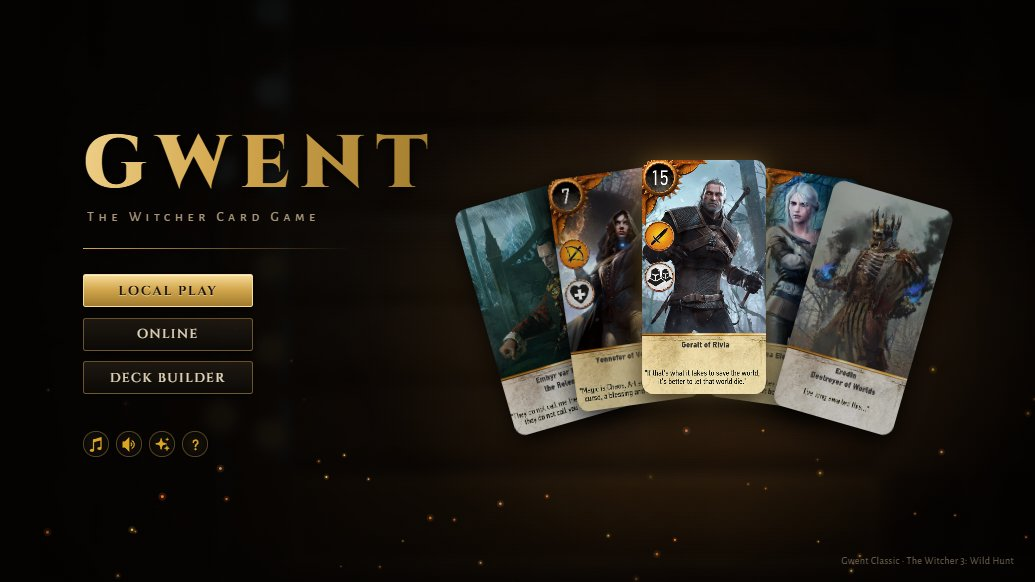
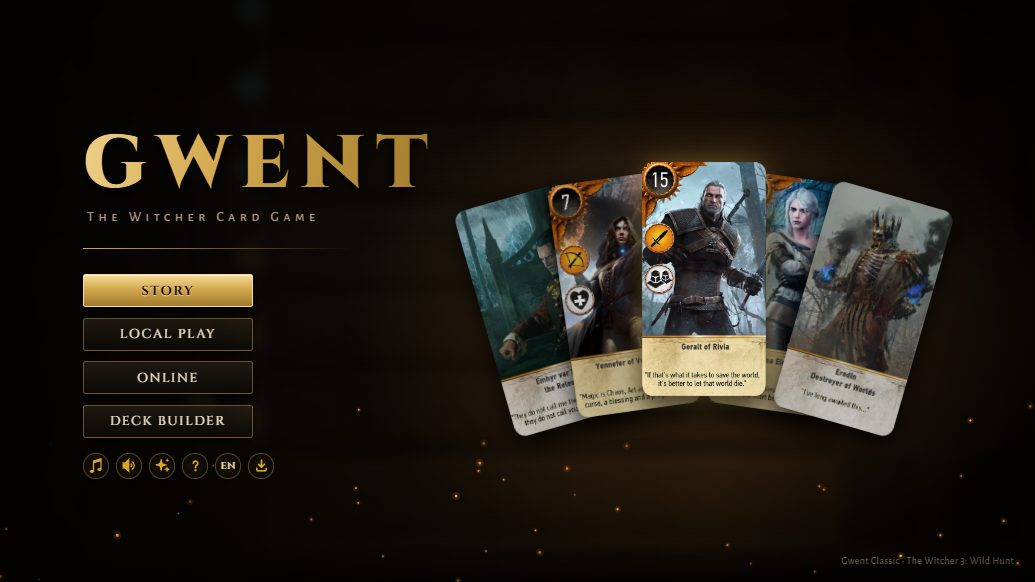
Refactor code structure for improved readability and maintainability

diff --git a/index.html b/index.html
@@ -6,8 +6,8 @@
 	<title>Gwent Classic from The Witcher 3: Wild Hunt</title>
 	<meta charset="utf-8" />
 	<meta name="author" content="Arun Sundaram" />
-	<meta name="description" content="Play the original Gwent minigame from The Witcher 3 in your browser! Includes cards from Hearts of Stone and Blood & Wine!" />
-	<meta name="keywords" content="arun, sundaram, programmer, gwent, tw3, witcher, card, game, gamedev, play" />
+	<meta name="description" content="Play the original Gwent card game from The Witcher 3 in your browser: follow Geralt's story across the Continent, or play the AI and friends online. Includes Hearts of Stone and Blood and Wine cards!" />
+	<meta name="keywords" content="arun, sundaram, programmer, gwent, tw3, witcher, card, game, gamedev, play, story mode, campaign" />
 	<meta name="viewport" content="width=device-width, initial-scale=1.0" />
 	<meta name="theme-color" content="#070605" />
 	<meta name="mobile-web-app-capable" content="yes" />
@@ -19,7 +19,7 @@
 	<meta property="og:site_name" content="Gwent Classic" />
 	<meta property="og:url" content="https://witcher-gwent.vercel.app/" />
 	<meta property="og:title" content="Gwent Classic from The Witcher 3: Wild Hunt" />
-	<meta property="og:description" content="Play the original Gwent card game in your browser – vs AI or online with friends. Includes Hearts of Stone and Blood &amp; Wine cards!" />
+	<meta property="og:description" content="Play the original Gwent card game in your browser – follow Geralt's story across the Continent, take on the AI or play friends online. Includes Hearts of Stone and Blood and Wine cards!" />
 	<meta property="og:image" content="https://witcher-gwent.vercel.app/img/app/og-card.jpg" />
 	<meta property="og:image:secure_url" content="https://witcher-gwent.vercel.app/img/app/og-card.jpg" />
 	<meta property="og:image:type" content="image/jpeg" />
@@ -28,7 +28,7 @@
 	<meta property="og:image:alt" content="Gwent Classic – Witcher medallion over the faction cards" />
 	<meta name="twitter:card" content="summary_large_image" />
 	<meta name="twitter:title" content="Gwent Classic from The Witcher 3: Wild Hunt" />
-	<meta name="twitter:description" content="Play the original Gwent card game in your browser – vs AI or online with friends." />
+	<meta name="twitter:description" content="Play the original Gwent card game in your browser – a story campaign across the Continent, AI opponents and online matches with friends." />
 	<meta name="twitter:image" content="https://witcher-gwent.vercel.app/img/app/og-card.jpg" />
 	<link rel="manifest" href="manifest.webmanifest" />
 	<!-- Chrome can fire this before the game scripts finish downloading -->
@@ -672,9 +672,11 @@
 							<span class="g-pin" style="--x:26.5; --y:50">1</span>
 							<span class="g-pin" style="--x:26.5; --y:57.4">2</span>
 							<span class="g-pin" style="--x:26.5; --y:64.9">3</span>
-							<span class="g-pin" style="--x:22.6; --y:76.4">4</span>
+							<span class="g-pin" style="--x:26.5; --y:72.4">4</span>
+							<span class="g-pin" style="--x:29.5; --y:80">5</span>
 						</div>
 						<ol class="g-legend">
+							<li><b>Story</b> &ndash; follow Geralt across the Continent, build a card collection and unlock every faction (see <i>Story Mode</i>).</li>
 							<li><b>Local Play</b> &ndash; opens the deck builder. Choose your opponent there: the <b>AI</b> (Easy to Expert) or <b>Pass and Play</b> with a friend on this device. Your last choice is remembered.</li>
 							<li><b>Online</b> &ndash; play a friend on another device.</li>
 							<li><b>Deck Builder</b> &ndash; edit your decks without starting a match.</li>
@@ -683,6 +685,61 @@
 					</div>
 					<ul class="g-notes">
 						<li>On phones and tablets, <b>Install App</b> appears here to add Gwent to your home screen and play full screen.</li>
+					</ul>
+				</article>
+
+				<article class="guide-page" data-name="Story Mode" data-icon="img/icons/notif_me_turn.png">
+					<h3>Story mode</h3>
+					<p class="guide-lead">Follow Geralt from White Orchard to the Wild Hunt, as Dandelion tells it. Beat the people (and monsters) he met at cards, grow your collection and unlock every faction.</p>
+					<div class="g-split">
+						<div class="g-shot">
+							<img src="img/guide/story.jpg" alt="Story map with an opponent selected" loading="lazy">
+							<span class="g-pin" style="--x:42.5; --y:46">1</span>
+							<span class="g-pin" style="--x:6.2; --y:93">2</span>
+							<span class="g-pin" style="--x:66.3; --y:6.5">3</span>
+							<span class="g-pin" style="--x:87.3; --y:15.4">4</span>
+							<span class="g-pin" style="--x:66.5; --y:24">5</span>
+							<span class="g-pin" style="--x:66.5; --y:44">6</span>
+							<span class="g-pin" style="--x:66.5; --y:51.5">7</span>
+							<span class="g-pin" style="--x:92.6; --y:76">8</span>
+						</div>
+						<ol class="g-legend">
+							<li><b>Map</b> &ndash; click a pin. Pulsing pins are ready, a crown marks the chapter boss, a number means several opponents in one place.</li>
+							<li><b>Zoom</b> with the wheel, a pinch or these buttons; drag to move.</li>
+							<li><b>Crowns</b>, your <b>Deck</b>, <b>Collection</b>, <b>Shop</b>, <b>Stats</b> and save <b>Options</b>.</li>
+							<li><b>Challenge</b> &ndash; starts the match.</li>
+							<li><b>Opponent</b> &ndash; faction, AI level and your current deck.</li>
+							<li><b>Special rules</b> &ndash; weather every round, an ambush, a blocked leader&hellip;</li>
+							<li><b>Objectives</b> &ndash; each one met earns a star.</li>
+							<li><b>Reward</b> &ndash; crowns and a card of your choice.</li>
+						</ol>
+					</div>
+					<ul class="g-notes">
+						<li>You start with a weak Northern Realms deck. Chapter bosses unlock Nilfgaard, Monsters, Scoia'tael and Skellige, each with a starter deck.</li>
+						<li>Beat a chapter's key opponents to face its <b>boss</b>, and beat the boss to open the next chapter. The <b>Journal</b> lists every chapter and your progress.</li>
+						<li>Each opponent has a fixed AI level, from Easy in White Orchard to Expert at the end. Losing costs nothing &ndash; adjust your deck and try again. Leaving a match counts as a loss.</li>
+						<li>Story scenes play before and after matches: click, tap or press <kbd>Enter</kbd> to continue, or <b>Skip</b>. <b>Replay Story</b> plays them again.</li>
+						<li>Beating the final boss rolls the credits, but the map still has stories to tell.</li>
+					</ul>
+				</article>
+
+				<article class="guide-page" data-name="Cards &amp; Crowns" data-icon="img/icons/coin.png">
+					<h3>Cards, crowns &amp; tournaments</h3>
+					<p class="guide-lead">In story mode you build decks only from cards you own. Win matches to grow your collection.</p>
+					<div class="g-abilities">
+						<div><img src="img/icons/coin.png" alt="" loading="lazy"><p><b>Crowns</b>Paid for every win. Bosses pay double the first time, rematches pay half, and each new star adds a bonus.</p></div>
+						<div><img src="img/icons/deck_stats_count.png" alt="" loading="lazy"><p><b>Reward cards</b>Pick 1 of 3 cards after every win. A first win also hands over the opponent's own reward cards.</p></div>
+						<div><img src="img/icons/icon_high_score.png" alt="" loading="lazy"><p><b>Stars</b>Up to 3 per opponent: one for winning and one for each objective. Rematch to earn the ones you missed.</p></div>
+						<div><img src="img/icons/icon_card_count.png" alt="" loading="lazy"><p><b>Card Trader</b>The Shop sells 8 cards from your factions and neutrals, restocked every 3 matches.</p></div>
+						<div><img src="img/icons/icon_gem_on.png" alt="" loading="lazy"><p><b>Wagers</b>On rematches and tournament rounds, stake crowns (win to double them) or a spare card (win to keep it and take one of theirs).</p></div>
+						<div><img src="img/icons/notif_win_round.png" alt="" loading="lazy"><p><b>Tournaments</b>Pay the entry fee and win 3 rounds in a row. Each round pays crowns; the champion wins a purse and a leader card.</p></div>
+						<div><img src="svg/deck.svg" alt="" loading="lazy"><p><b>Your deck</b>Each unlocked faction keeps its own deck. Usual rules: 22+ units, at most 10 specials.</p></div>
+						<div><img src="svg/install.svg" alt="" loading="lazy"><p><b>Saving</b>Progress saves itself in this browser. Story Options can export a backup or import it on another device.</p></div>
+					</div>
+					<ul class="g-notes">
+						<li>Copies beyond a card's limit are paid out in crowns instead, so no reward is wasted.</li>
+						<li>Only spare copies (ones not in any of your decks) can be staked. Losing the match, or leaving it, loses the stake.</li>
+						<li>In a tournament one loss knocks you out (the fee is not refunded); a draw replays the round.</li>
 					</ul>
 				</article>
 

diff --git a/i18n.js b/i18n.js
@@ -224,11 +224,45 @@ const I18N = {
 
 		"Main menu & game modes": "Menú principal y modos de juego",
 		"Main menu": "Menú principal",
+		"<b>Story</b> – follow Geralt across the Continent, build a card collection and unlock every faction (see <i>Story Mode</i>).": "<b>Historia</b>: sigue a Geralt por el Continente, arma una colección de cartas y desbloquea todas las facciones (ver <i>Modo historia</i>).",
 		"<b>Local Play</b> – opens the deck builder. Choose your opponent there: the <b>AI</b> (Easy to Expert) or <b>Pass and Play</b> with a friend on this device. Your last choice is remembered.": "<b>Juego local</b>: abre el editor de mazos. Elige allí a tu oponente: la <b>IA</b> (de Fácil a Experto) o <b>Pasa y juega</b> con un amigo en este dispositivo. Se recuerda tu última elección.",
 		"<b>Online</b> – play a friend on another device.": "<b>En línea</b>: juega contra un amigo en otro dispositivo.",
 		"<b>Deck Builder</b> – edit your decks without starting a match.": "<b>Editor de mazos</b>: edita tus mazos sin empezar una partida.",
 		"<b>Settings</b> – music, sound, effects, language and this guide.": "<b>Ajustes</b>: música, sonido, efectos, idioma y esta guía.",
 		"On phones and tablets, <b>Install App</b> appears here to add Gwent to your home screen and play full screen.": "En teléfonos y tabletas aparece aquí <b>Instalar app</b> para agregar Gwent a tu pantalla de inicio y jugar a pantalla completa.",
+
+		"Story Mode": "Modo historia",
+		"Story mode": "Modo historia",
+		"Follow Geralt from White Orchard to the Wild Hunt, as Dandelion tells it. Beat the people (and monsters) he met at cards, grow your collection and unlock every faction.": "Sigue a Geralt desde Huerto Blanco hasta la Cacería Salvaje, tal como lo cuenta Dandelion. Vence a las cartas a la gente (y a los monstruos) que conoció, haz crecer tu colección y desbloquea todas las facciones.",
+		"Story map with an opponent selected": "Mapa de la historia con un oponente seleccionado",
+		"<b>Map</b> – click a pin. Pulsing pins are ready, a crown marks the chapter boss, a number means several opponents in one place.": "<b>Mapa</b>: haz clic en un marcador. Los que laten están listos, una corona señala al jefe del capítulo y un número indica varios oponentes en un mismo lugar.",
+		"<b>Zoom</b> with the wheel, a pinch or these buttons; drag to move.": "<b>Zoom</b> con la rueda, pellizcando o con estos botones; arrastra para moverte.",
+		"<b>Crowns</b>, your <b>Deck</b>, <b>Collection</b>, <b>Shop</b>, <b>Stats</b> and save <b>Options</b>.": "<b>Coronas</b>, tu <b>Mazo</b>, <b>Colección</b>, <b>Tienda</b>, <b>Estadísticas</b> y <b>Opciones</b> de guardado.",
+		"<b>Challenge</b> – starts the match.": "<b>Desafiar</b>: empieza la partida.",
+		"<b>Opponent</b> – faction, AI level and your current deck.": "<b>Oponente</b>: facción, nivel de la IA y tu mazo actual.",
+		"<b>Special rules</b> – weather every round, an ambush, a blocked leader…": "<b>Reglas especiales</b>: clima en cada ronda, una emboscada, un líder bloqueado…",
+		"<b>Objectives</b> – each one met earns a star.": "<b>Objetivos</b>: cada uno que cumplas te da una estrella.",
+		"<b>Reward</b> – crowns and a card of your choice.": "<b>Recompensa</b>: coronas y una carta a tu elección.",
+		"You start with a weak Northern Realms deck. Chapter bosses unlock Nilfgaard, Monsters, Scoia'tael and Skellige, each with a starter deck.": "Empiezas con un mazo débil de los Reinos del Norte. Los jefes de capítulo desbloquean Nilfgaard, Monstruos, Scoia'tael y Skellige, cada uno con un mazo inicial.",
+		"Beat a chapter's key opponents to face its <b>boss</b>, and beat the boss to open the next chapter. The <b>Journal</b> lists every chapter and your progress.": "Vence a los oponentes clave de un capítulo para enfrentarte a su <b>jefe</b>, y vence al jefe para abrir el siguiente capítulo. El <b>Diario</b> muestra cada capítulo y tu progreso.",
+		"Each opponent has a fixed AI level, from Easy in White Orchard to Expert at the end. Losing costs nothing – adjust your deck and try again. Leaving a match counts as a loss.": "Cada oponente tiene un nivel de IA fijo, desde Fácil en Huerto Blanco hasta Experto al final. Perder no cuesta nada: ajusta tu mazo y vuelve a intentarlo. Abandonar una partida cuenta como derrota.",
+		"Story scenes play before and after matches: click, tap or press <kbd>Enter</kbd> to continue, or <b>Skip</b>. <b>Replay Story</b> plays them again.": "Las escenas de la historia se muestran antes y después de las partidas: haz clic, toca o presiona <kbd>Enter</kbd> para continuar, o usa <b>Saltar</b>. <b>Repetir historia</b> las vuelve a mostrar.",
+		"Beating the final boss rolls the credits, but the map still has stories to tell.": "Vencer al jefe final muestra los créditos, pero el mapa aún tiene historias que contar.",
+
+		"Cards & Crowns": "Cartas y coronas",
+		"Cards, crowns & tournaments": "Cartas, coronas y torneos",
+		"In story mode you build decks only from cards you own. Win matches to grow your collection.": "En el modo historia solo armas mazos con las cartas que tienes. Gana partidas para hacer crecer tu colección.",
+		"<b>Crowns</b>Paid for every win. Bosses pay double the first time, rematches pay half, and each new star adds a bonus.": "<b>Coronas</b>Se pagan por cada victoria. Los jefes pagan el doble la primera vez, las revanchas pagan la mitad y cada estrella nueva suma un extra.",
+		"<b>Reward cards</b>Pick 1 of 3 cards after every win. A first win also hands over the opponent's own reward cards.": "<b>Cartas de recompensa</b>Elige 1 de 3 cartas tras cada victoria. La primera victoria también te da las cartas de recompensa propias del oponente.",
+		"<b>Stars</b>Up to 3 per opponent: one for winning and one for each objective. Rematch to earn the ones you missed.": "<b>Estrellas</b>Hasta 3 por oponente: una por ganar y una por cada objetivo. Juega la revancha para conseguir las que te faltaron.",
+		"<b>Card Trader</b>The Shop sells 8 cards from your factions and neutrals, restocked every 3 matches.": "<b>Comerciante de cartas</b>La Tienda vende 8 cartas de tus facciones y neutrales, y renueva su surtido cada 3 partidas.",
+		"<b>Wagers</b>On rematches and tournament rounds, stake crowns (win to double them) or a spare card (win to keep it and take one of theirs).": "<b>Apuestas</b>En revanchas y rondas de torneo, apuesta coronas (gana para duplicarlas) o una carta sobrante (gana para conservarla y llevarte una de las suyas).",
+		"<b>Tournaments</b>Pay the entry fee and win 3 rounds in a row. Each round pays crowns; the champion wins a purse and a leader card.": "<b>Torneos</b>Paga la inscripción y gana 3 rondas seguidas. Cada ronda paga coronas; el campeón gana una bolsa y una carta de líder.",
+		"<b>Your deck</b>Each unlocked faction keeps its own deck. Usual rules: 22+ units, at most 10 specials.": "<b>Tu mazo</b>Cada facción desbloqueada guarda su propio mazo. Reglas de siempre: 22 unidades o más y como máximo 10 especiales.",
+		"<b>Saving</b>Progress saves itself in this browser. Story Options can export a backup or import it on another device.": "<b>Guardado</b>El progreso se guarda solo en este navegador. En Opciones de la historia puedes exportar una copia de seguridad o importarla en otro dispositivo.",
+		"Copies beyond a card's limit are paid out in crowns instead, so no reward is wasted.": "Las copias que superan el límite de una carta se pagan en coronas, así que ninguna recompensa se desperdicia.",
+		"Only spare copies (ones not in any of your decks) can be staked. Losing the match, or leaving it, loses the stake.": "Solo puedes apostar copias sobrantes (las que no están en ninguno de tus mazos). Si pierdes la partida, o la abandonas, pierdes lo apostado.",
+		"In a tournament one loss knocks you out (the fee is not refunded); a draw replays the round.": "En un torneo, una derrota te elimina (no se devuelve la inscripción); un empate repite la ronda.",
 
 		"Building your deck": "Arma tu mazo",
 		"Deck builder": "Editor de mazos",

diff --git a/sw.js b/sw.js
@@ -1,5 +1,5 @@
 // Bump to drop old caches after changing asset files in place.
-const VERSION = "gwent-v29";
+const VERSION = "gwent-v30";
 const SHELL = `${VERSION}-shell`;
 const ASSETS = `${VERSION}-assets`;
 

diff --git a/README.md b/README.md
@@ -1,12 +1,13 @@
 # Gwent Classic
 
-The Gwent card game from *The Witcher 3: Wild Hunt*, rebuilt for the browser. It has every card from the base game, *Hearts of Stone*, *Blood and Wine* and the next-gen update, an AI opponent, online matches with a room code, pass-and-play matches on one device, a deck builder, and a refreshed UI with a title screen, visual effects and music that changes between menus and matches.
+The Gwent card game from *The Witcher 3: Wild Hunt*, rebuilt for the browser. It has every card from the base game, *Hearts of Stone*, *Blood and Wine* and the next-gen update, a story campaign that follows Geralt across the Continent, an AI opponent, online matches with a room code, pass-and-play matches on one device, a deck builder, and a refreshed UI with a title screen, visual effects and music that changes between menus and matches. It's playable in English and Spanish and installs as an app on phones.
 
 No install, no build step. It's plain HTML, CSS and JavaScript.
 
 ## Contents
 - [Quick start](#quick-start)
 - [How to play](#how-to-play)
+- [Story mode](#story-mode)
 - [Online play](#online-play)
 - [Pass and play](#pass-and-play)
 - [Factions](#factions)
@@ -42,6 +43,60 @@ Win **two of three rounds**. The player with the higher total score when a round
 Units go in one of three rows: **Close Combat**, **Ranged** or **Siege**. Click a card in your hand to select it, then click a row to play it. Click a row, discard pile or leader to inspect it; this works during your opponent's turn too. Hovering a button or leader with the mouse (or focusing it with <kbd>Tab</kbd>) shows a short hint; touch screens skip these hints so they don't stay stuck on screen after a tap.
 
 **Keyboard:** <kbd>Tab</kbd> moves between cards, rows and buttons; <kbd>Enter</kbd> or <kbd>Space</kbd> activates the focused one. In card pickers, <kbd>&larr;</kbd>/<kbd>&rarr;</kbd> browse, <kbd>Enter</kbd> selects and <kbd>Esc</kbd> closes. <kbd>Esc</kbd> also cancels a selected card. Game messages are announced to screen readers.
+
+The **?** button opens an illustrated How to Play guide covering the rules, every game mode and the controls.
+
+## Story mode
+A single-player campaign that follows Geralt through *The Witcher 3*, told by Dandelion. Choose **Story** on the title screen. You start with a weak Northern Realms deck and an empty purse, and build a collection by beating the people (and monsters) Geralt met along the way.
+
+### The map
+- Each pin is an opponent, or a place with several (the number on the pin; click it for the list). Pulsing pins are ready to play, a crown marks a chapter boss, a padlock means locked, and stars under a pin show the objectives you've earned.
+- Regions you haven't reached are covered in fog, and a dotted route links the bosses of the chapters you've opened. Zoom with the mouse wheel, a pinch or the **+**/**&minus;** buttons, and drag to pan.
+- The side panel starts on the **Journal**: every chapter with its progress and stars, plus any open tournaments. Chapters and places show a tavern rumor; **Replay Story** plays a chapter's opening again. <kbd>Esc</kbd> goes back.
+- The bar on top shows your **crowns** and opens your **Deck**, **Collection**, **Shop**, **Stats** and **Options**.
+
+### Chapters
+| Chapter | Boss | Unlocks |
+| --- | --- | --- |
+| Prologue: White Orchard | Vesemir | |
+| I: Vizima | Emhyr var Emreis | Nilfgaard |
+| II: Velen | The Crones | Monsters |
+| III: Novigrad & Oxenfurt | Zoltan Chivay | Scoia'tael, Passiflora tournament |
+| IV: Skellige | Crach an Craite | Skellige, Kaer Trolde tournament |
+| V: Kaer Morhen | Battle of Kaer Morhen | |
+| VI: The Wild Hunt | Eredin | Credits, post-game chapters |
+
+A chapter's boss appears once you've beaten its key opponents and enough of the others (the opponent panel says what's missing), and beating the boss opens the next chapter. The Wild Hunt is linear: each general must fall before the next. Beating Eredin rolls the credits and opens two post-game chapters, *Hearts of Stone* and *Blood and Wine* (with the Beauclair tournament); one of their opponents is a secret that only appears on the map once it can be challenged. An unlocked faction comes with its own starter deck and leader.
+
+### Opponents and matches
+Select an opponent to see their faction and AI level, your current deck, their **special rules**, the **objectives** and the **reward**, then press **Challenge**. The first challenge plays the opponent's introduction; after the match, Dandelion tells how it went and a results screen shows stars, crowns and cards.
+
+- **AI level:** fixed per opponent, from Easy in White Orchard to Expert for the final bosses. There's no difficulty setting, and Hard/Expert deck caps don't apply.
+- **Special rules:** weather played at the start of some or every round, an ambush (the opponent goes first), an extra card for you or both players in round 1, informants (you discard a random card in round 1), a blocked leader, or deck terms (for example no weather cards in your deck; **Challenge** stays disabled until your deck complies).
+- **Stars:** up to 3 per opponent: one for winning and one for each of its two objectives (win 2&ndash;0, win without using your leader, win the final round by 20+, finish with 3+ cards in hand, win without playing weather, win while going second). Rematches can earn the stars you missed.
+- **Losing** costs nothing: adjust your deck and try again. The end screen offers **Continue** (back to the map) and **Rematch**. Leaving a match early counts as a loss.
+- **Music:** chapter bosses get Silver for Monsters (Monsters) or Steel for Humans (everyone else); the map plays The Trail.
+
+### Rewards and the collection
+- **Crowns:** each win pays the chapter's rate (10 in White Orchard up to 100 for the Wild Hunt and the post-game). A boss pays double the first time, rematches pay half, and every new star adds a quarter of the rate.
+- **Cards:** after every win you pick 1 of 3 cards (from the opponent's faction if you've unlocked it, otherwise from yours, plus neutrals; heroes are rarer on rematches). A first win also gives the opponent's fixed reward cards, shown in the panel. Copies beyond a card's limit are paid out in crowns. Unpicked rewards wait on the map, even after a reload.
+- **Deck:** opens the deck builder limited to the copies and leaders you own, one deck per unlocked faction, with the usual rules (22+ units, at most 10 special cards). The faction you leave selected is the one you play with.
+- **Collection:** every card by faction, owned/maximum copies, and how much of the set you've collected.
+- **Shop (Card Trader):** 8 cards from your unlocked factions and the neutral, special and weather cards, never leaders or fixed rewards. New stock every 3 matches. Prices: 10 crowns for plain units, 30 for cards with an ability (special and weather cards included), 100 for heroes.
+- **Wagers:** on rematches and tournament rounds you can stake 10, 25 or 50 crowns (a win doubles them, a draw returns them) or a spare card, meaning a copy not used in any of your decks (win to keep it and pick a card from the opponent's deck, draw to keep it). Losing the match, or leaving it, loses the stake.
+- **Stats:** wins, losses, streaks, crowns earned, tournaments won, stars and collection per faction.
+
+### Tournaments
+| Tournament | Opens after | Entry fee | Per round won | Champion |
+| --- | --- | --- | --- | --- |
+| Passiflora (Novigrad) | Zoltan | 20 | 20 | +80 and a leader card |
+| Kaer Trolde (Skellige) | Crach | 50 | 50 | +200 and a leader card |
+| Beauclair (Toussaint) | Regis | 100 | 100 | +400 and a leader card |
+
+Three single-elimination rounds against random entrants with AI decks, each tougher than the last and possibly with a special rule. The bracket is drawn when you enter, so a reload resumes the same run. A draw replays the round; a loss, or leaving a match, ends the run; **Withdraw** quits at any time. The fee is never refunded, and only one run can be open at a time. Once you own all of a tournament's leaders, the champion picks a hero instead.
+
+### Saving
+Progress is saved automatically in the browser's `localStorage` (`gc-story`). **Options** exports the save as `gwent-story-save.json`, imports it on another device or browser, or resets the campaign. Imported files are validated; a save that fails validation on load is kept in `gc-story-backup` before a fresh one starts.
 
 ## Online play
 Play someone on another device. Both players need an internet connection.
@@ -109,7 +164,7 @@ Open the **Deck Builder** from the title screen.
 - **Opponent:** choose **AI** or **Pass and Play** (see [Pass and play](#pass-and-play)). The choice is remembered.
 - **AI difficulty:** pick **Easy**, **Normal**, **Hard** or **Expert** under *Opponent* (shown when playing the AI). Each difficulty has its own pool of decks, one or more per faction, each with a set leader: Easy brings weak starter decks, Normal the classic premade decks, and Hard thin decks full of heroes, spies, medics and the strongest leaders. Easy also skips its redraw and often makes random plays; Normal weighs its options with some randomness; Hard plays for card advantage: it takes free cards first (spies, decoyed spies, Avengers), answers with its cheapest card that takes the lead, passes once ahead in rounds it can afford to lose, and once you've passed it wins with the fewest cards (or gives up a round that would cost too many). On Hard your deck may have at most 180 total unit strength and 4 hero cards. Expert is the Hard AI with Hard decks, but your deck may have at most 130 total unit strength and 3 hero cards; the deck stats show these limits and turn red when exceeded. The choice is remembered.
 
-Decks are saved per faction in your browser's `localStorage`, along with the last faction you used (separately for Player 2 in pass and play).
+Decks are saved per faction in your browser's `localStorage`, along with the last faction you used (separately for Player 2 in pass and play). Story mode keeps its own decks and collection (see [Story mode](#story-mode)).
 
 Deck file format (`index` refers to the position of the card in `card_dict` in `cards.js`):
 
@@ -131,24 +186,32 @@ The four toggle buttons are in the center column of the deck builder and in the 
 
 During a match (and while waiting in an online room) the game asks the browser to keep the screen on, so phones don't dim or lock mid-game. Browsers that don't support it, or phones in battery saver, just time out as usual.
 
+The **EN**/**ES** button on the title screen switches between English and Spanish (story dialogue included; card names stay in English).
+
 ## Project structure
 | Path | Contents |
 | --- | --- |
-| `index.html` | Page markup, title screen and script/style includes |
-| `gwent.js` | Game engine: board, rows, players, AI, pass and play, UI, deck builder, settings, audio, music |
+| `index.html` | Page markup, title screen, How to Play guide, story screen and script/style includes |
+| `i18n.js` | Spanish translations (`t()`), loaded first; `translatePage()` translates the static markup |
+| `gwent.js` | Game engine: board, rows, players, AI, pass and play, UI, deck builder, guide, settings, audio, music |
 | `online.js` | Online play: lobby, PeerJS connection, move exchange, reconnects, turn timer |
+| `campaign.js` | Story content: starter decks, places, chapters, opponents (decks, rules, objectives, rewards, dialogue in English and Spanish), tournaments |
+| `story.js` | Story mode: save and collection (`StoryMode`), progression, rewards, shop, wagers, tournaments, and the map, side panel, dialogue and modals (`StoryUI`) |
+| `portrait-frames.js` | Crop and zoom of card art used in round story portraits (`portraitFrames`) |
 | `api/turn.js` | Vercel serverless function that mints Cloudflare TURN relay credentials (env `CF_TURN_KEY_ID`, `CF_TURN_API_TOKEN`) |
 | `lib/peerjs.min.js` | PeerJS 1.5.5 (MIT), loaded only when hosting or joining a room |
 | `cards.js` | Card database (`card_dict`) |
-| `decks.js` | Premade decks used by the AI |
+| `decks.js` | Decks used by the AI, per difficulty (`ai_decks`) |
 | `factions.js` | Faction perks |
 | `abilities.js` | Card and leader abilities (`ability_dict`) |
 | `fx.js` | Visual effects API (`fx.burst`, `fx.shake`, `fx.sunlight`, `fx.pulse`, `fx.flash`) |
 | `common.js` | Shared helpers |
-| `css/` | Stylesheets: `tokens`, `base`, `board`, `cards`, `overlays`, `deckbuilder`, `title`, `fx` |
-| `img/` | Board, card art (`sm/`, `lg/`) and icons |
+| `sw.js`, `manifest.webmanifest` | Service worker (offline cache) and web app manifest for installing |
+| `css/` | Stylesheets: `tokens`, `base`, `board`, `cards`, `overlays`, `deckbuilder`, `title`, `fx`, `guide`, `story` |
+| `img/` | Board, card art (`sm/`, `lg/`), icons, app icons (`app/`), guide screenshots (`guide/`) and the story map (`map/`) |
 | `svg/` | UI button icons |
-| `sfx/` | Sound effects (`card.animate(name)` plays `sfx/<name>.mp3`) |
+| `sfx/` | Sound effects (`card.animate(name)` plays `sfx/<name>.mp3`) and music (`sfx/music/`) |
+| `tools/portrait-framer.html` | Editor for `portrait-frames.js` (not deployed) |
 | `Start Gwent.bat` | Local server launcher for Windows |
 
 ## Development notes
@@ -156,12 +219,17 @@ During a match (and while waiting in an online room) the game asks the browser t
 - **Sizing:** the stage is a letterboxed 16:9 box. `var(--u)` equals 1% of the stage width; use it instead of `vw`.
 - **Board art:** row positions and score circles are baked into `img/board.jpg`. Restyle overlays freely, but don't move them.
 - **Card transforms:** `gwent.js` sets an inline `transform` on cards while moving them, so card animations in CSS should use the standalone `translate` / `scale` / `rotate` properties.
-- **Script order:** `online.js` and `fx.js` load after `gwent.js`.
+- **Script order:** `i18n.js` loads first; `online.js`, `campaign.js`, `portrait-frames.js`, `story.js` and `fx.js` load after `gwent.js`, in that order. New shell files also go in the `SHELL_FILES` list in `sw.js`; bump its `VERSION` when replacing assets in place.
 - **Online determinism:** online clients must make the same random choices in the same order. Game-state randomness uses the player's seeded `player.rng` (or `Online.rng` for the coin toss) and random picks from a container sort by `card.uid` first, because the two clients order hands, rows and graves differently. Player choices go through `Online.carousel` / `Online.rowChoice` / `Online.choice` so the opponent's client replays them.
 - **Testing audio and music:** serve over http. `file://` can fail to load larger sound and music files.
 - **Summons and resets:** `Game.reset()` empties the rows while the state can still be `PLAYING`, which fires `removed` callbacks. Abilities that put cards on the board from a `removed` callback must check `game.summonsAllowed()`.
 - **Off-turn input:** `main.noclick` blocks play while it isn't your turn, but rows, weather, discard piles and leaders stay clickable for inspection. `ui.viewCardsInContainer(container)` without an action opens a view-only carousel that never changes `ui.enablePlayer`; anything that plays a card must check `ui.isInteractive()`.
 - **Pacing:** card placement always waits `DURATION_CARD_PLACEMENT`, independent of the sound effects setting.
+- **Story matches:** `game.story` holds the running story match. `Game.startGame` calls `StoryMode.applyModifiers` before setting up the players, and the end screen, exit and rematch hand off to `StoryMode` (`onGameEnd`, `finish`, `leaveMatch`). The deck builder reads and writes story decks through `StoryMode.deckStore` while `dm.story` is set.
+- **Campaign data:** cards in `campaign.js` are `[card_dict index, count]`, and pins and fog reveals are percentages of the map image. Dialogue lines are `{who, en, es}`; `who` is `"opp"`, `"geralt"`, `"ciri"`, `"narrator"` (Dandelion) or `"chronicle"` (an in-world book quote with a `source`). Short labels such as names go through `t()`, so they need an `I18N.es` entry. Fixed rewards are never offered in random picks or the shop.
+- **Story saves:** `StoryMode.sanitize()` rebuilds every loaded or imported save from known fields only. Add any new save field there, or it's dropped.
+- **Story map art:** the game uses `img/map/continent-1280.jpg` and `continent-2560.jpg`. The full-size source map is ignored by git and Vercel.
+- **Story portraits:** round portraits (map pins, panel rows, tournament trophies) frame card art with `portraitFrames[name] = [x%, y%, zoom%]`. Open `tools/portrait-framer.html` over http to drag and zoom them and save the file.
 
 ## Credits
 - Original project by [asundr](https://github.com/asundr/gwent-classic).
